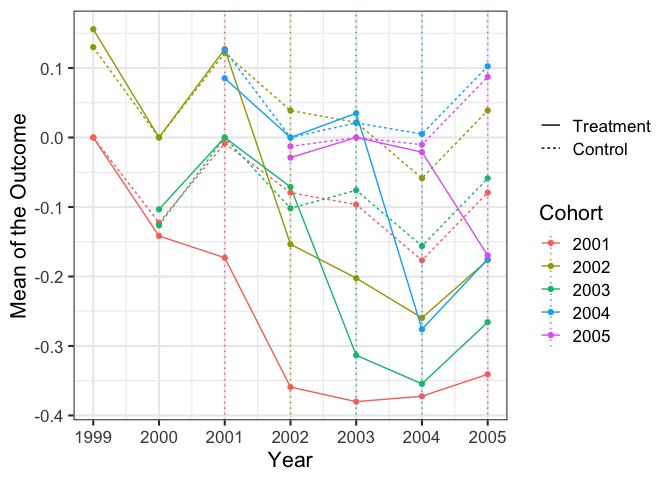
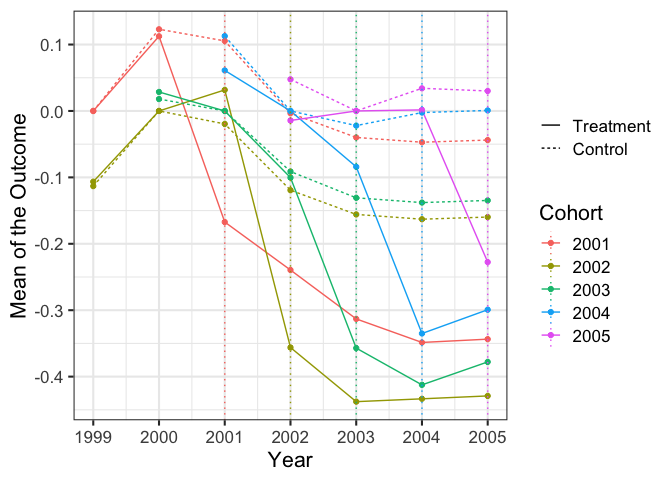
Add installation instructions

diff --git a/README.md b/README.md
@@ -10,13 +10,19 @@ The methods are explained in [our companion Practical Guide to Event Studies](ht
 Overview
 ========
 
+### Purpose
+
 `eventStudy` is an R package for performing event studies. It has many capabilites:
 
 -   It maximizes sample size by using a "stacked" approach to match all possible control observations to any given treatment observation at any event time;
 -   It allows the estimated treatment effects to vary over time and by treatment cohort. It can also impose a common treatment effect across cohorts (extending results by Abraham and Sun, 2018);
 -   It has built-in tools to correct for anticipation (extending results by Fadlon & Nielsen, 2018) and deviations from parallel trends (either using covariate balancing in the spirit of Abadie, 2003, or modeling parametric deviations from parallel trends).
 
-The latest version of the package can be installed with the command `devtools::install_github("setzler/eventStudy/eventStudy")`.
+### Installation
+
+**Preferred method:** The latest version of the package can be installed with the command `devtools::install_github("setzler/eventStudy/eventStudy")`.
+
+Installation without internet access: Clone this repo to your personal machine, use the command line approach of `R CMD BUILD eventStudy/` to build the file eventStudy\_0.1.0.tar.gz, move this .tar.gz file to the location without internet access, then install on that location using the command `install.package("eventStudy_0.1.0.tar.gz",repo=NULL)` within an R session. In case you cannot clone and build the repo, we provide a (possibly out of date) version of the .tar.gz file above.
 
 The `ES` command
 ================
@@ -76,18 +82,18 @@ sim_data <- ES_simulate_data(units = 1000)[["observed"]]
 sim_data[]
 ```
 
-    ##       individual year treatment_year    outcome
-    ##    1:          1 1999           2003 0.98167844
-    ##    2:          1 2000           2003 0.57279337
-    ##    3:          1 2001           2003 0.97588704
-    ##    4:          1 2002           2003 0.82146202
-    ##    5:          1 2003           2003 0.08554867
-    ##   ---                                          
-    ## 6996:       1000 2001           2003 0.60283019
-    ## 6997:       1000 2002           2003 0.79329822
-    ## 6998:       1000 2003           2003 0.60895439
-    ## 6999:       1000 2004           2003 0.24397755
-    ## 7000:       1000 2005           2003 0.70081946
+    ##       individual year treatment_year   outcome
+    ##    1:          1 1999           2002 0.7032163
+    ##    2:          1 2000           2002 0.7677275
+    ##    3:          1 2001           2002 0.8839913
+    ##    4:          1 2002           2002 0.2687297
+    ##    5:          1 2003           2002 0.2889234
+    ##   ---                                         
+    ## 6996:       1000 2001           2002 0.5799960
+    ## 6997:       1000 2002           2002 0.4863395
+    ## 6998:       1000 2003           2002 0.4516244
+    ## 6999:       1000 2004           2002 0.4382181
+    ## 7000:       1000 2005           2002 0.7611980
 
 In this data, the treatment is received in the year given by the `treatment_year` variable. The other variables are `individual`, `year`, and `outcome`. We wish to perform an event study to understand the effect of this treatment on this outcome.
 
@@ -114,9 +120,9 @@ results <- ES(long_data=sim_data, outcomevar="outcome", unit_var="individual", c
     ## Warning in as.POSIXlt.POSIXct(x, tz): unknown timezone 'zone/tz/2018i.1.0/
     ## zoneinfo/America/Chicago'
 
-    ## INFO [2019-01-24 00:51:01] Successfully produced a stacked dataset.
-    ## INFO [2019-01-24 00:51:02] Estimated heterogeneous case with OLS.
-    ## INFO [2019-01-24 00:51:02] Estimated homogeneous case with OLS.
+    ## INFO [2019-01-24 01:07:37] Successfully produced a stacked dataset.
+    ## INFO [2019-01-24 01:07:38] Estimated heterogeneous case with OLS.
+    ## INFO [2019-01-24 01:07:38] Estimated homogeneous case with OLS.
 
 Now, we plot the results. First, we plot the treatment and control means. The ES function has constructed the appropriate control group for each treatment group. We can see that it looks much cleaner than in the raw data:
 
